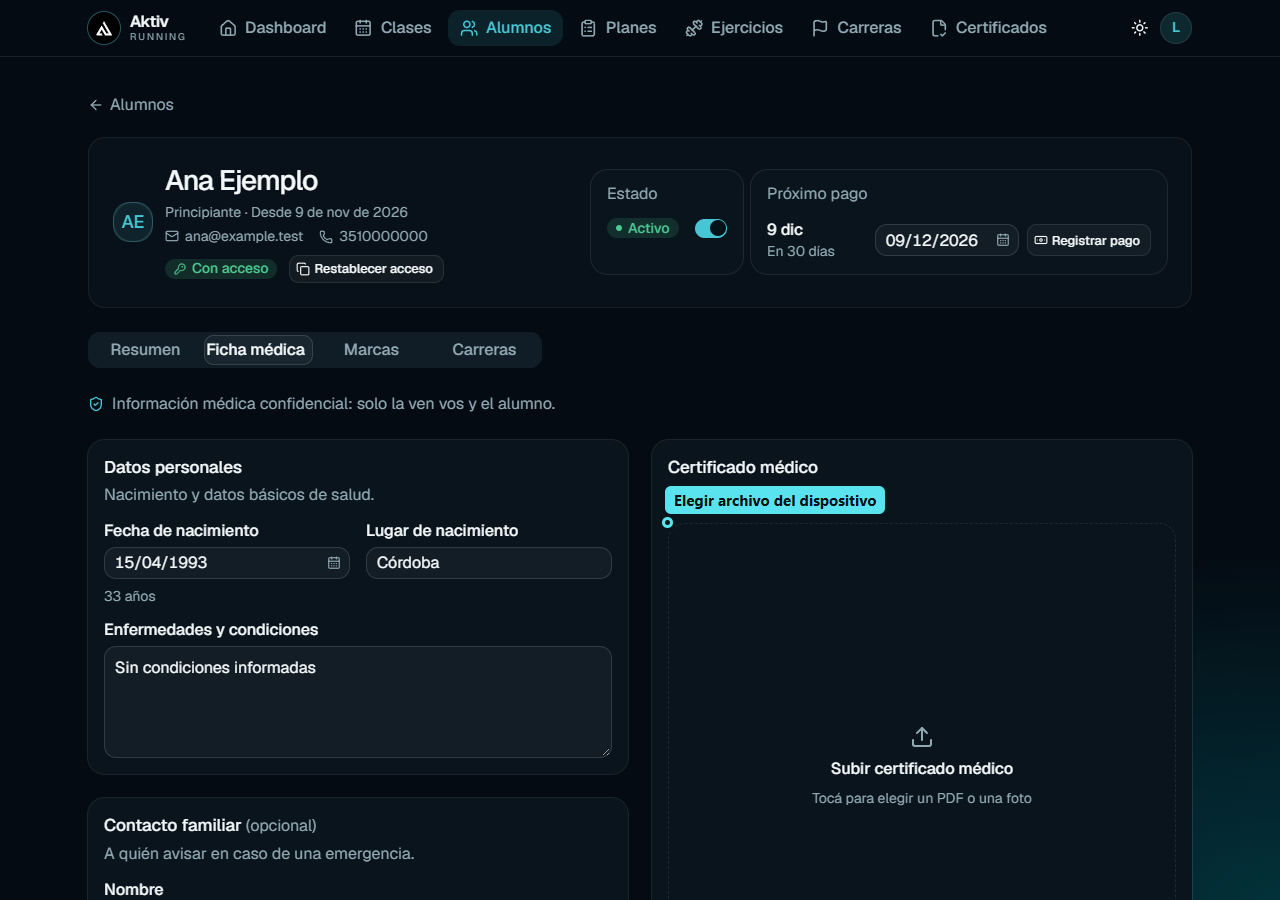
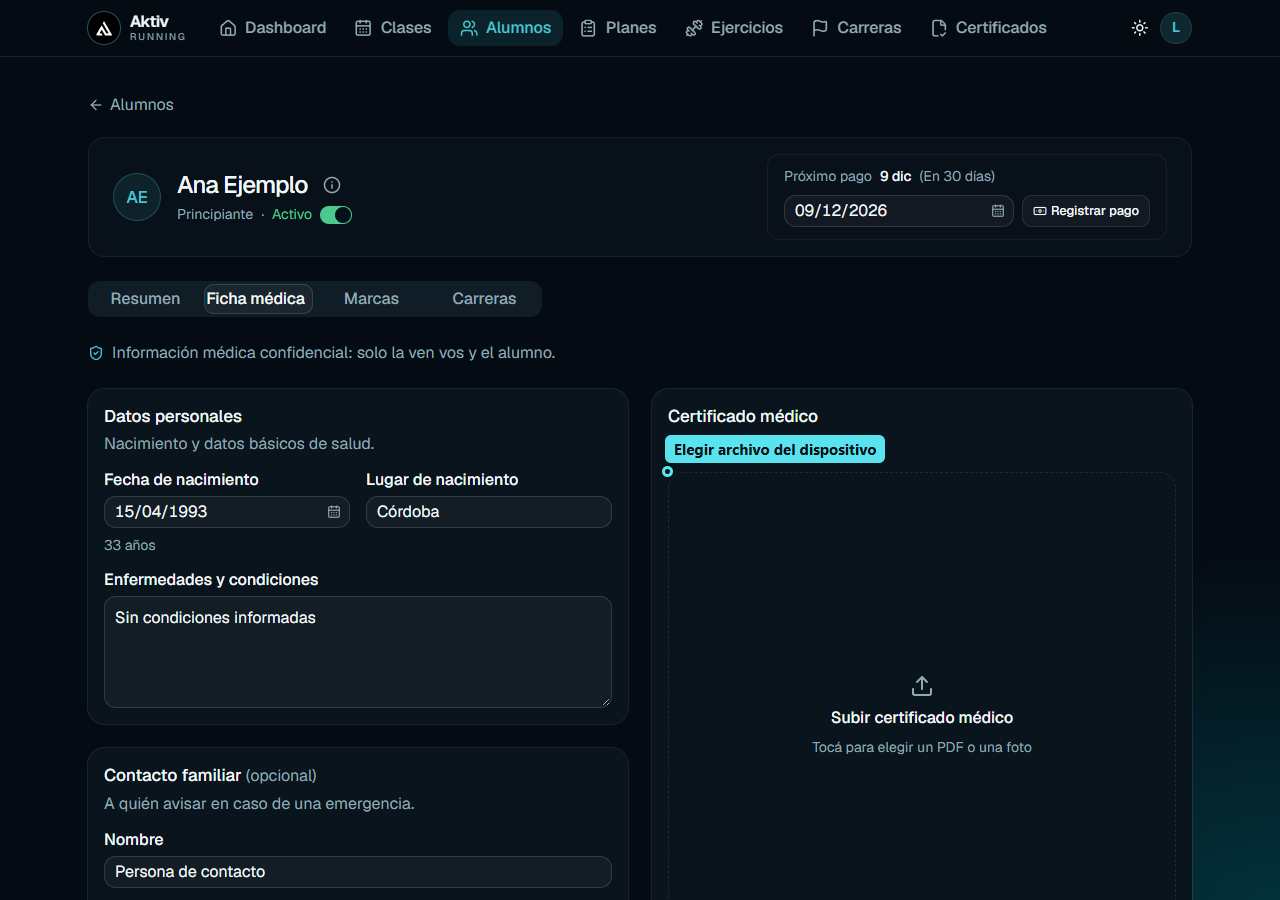
Compactar cabecera y bloquear acceso de alumnos inactivos

diff --git a/aktiv-client/src/app/(app)/alumnos/[id]/page.tsx b/aktiv-client/src/app/(app)/alumnos/[id]/page.tsx
@@ -3,25 +3,18 @@
 import Link from "next/link";
 import { useState } from "react";
 import { useParams } from "next/navigation";
-import { ArrowLeft, Banknote, Mail, Phone, UserSearch } from "lucide-react";
+import { ArrowLeft, Banknote, Info, Mail, Phone, UserSearch } from "lucide-react";
 import { toast } from "sonner";
 import { AccesoAlumno, EliminarAlumno } from "@/components/acceso-card";
 import { CarrerasDeAlumno } from "@/components/carreras-view";
-import { EstadoBadge, PagoTexto } from "@/components/estado";
 import { FichaMedica } from "@/components/ficha-medica";
 import { MarcasPanel } from "@/components/marcas-panel";
 import { AlumnoResumen } from "@/components/alumno-resumen";
 import { PlanEditor } from "@/components/plan-editor";
 import { PlanMensualPanel } from "@/components/plan-mensual";
 import { usePlanesMensuales, hayBorradoresMensuales } from "@/lib/mensual";
-import { Avatar, AvatarFallback } from "@/components/ui/avatar";
 import { Button, buttonVariants } from "@/components/ui/button";
-import {
-  Card,
-  CardContent,
-  CardDescription,
-  CardHeader,
-} from "@/components/ui/card";
+import { Dialog, DialogContent, DialogDescription, DialogHeader, DialogTitle } from "@/components/ui/dialog";
 import { FechaInput } from "@/components/fecha-input";
 import { Label } from "@/components/ui/label";
 import { Switch } from "@/components/ui/switch";
@@ -34,12 +27,15 @@ import {
   iniciales,
   parseISO,
   sumarMeses,
+  textoRelativo,
 } from "@/lib/format";
 import { useRol } from "@/lib/guards";
-import { actualizarAlumno, useStore } from "@/lib/store";
+import { actualizarAlumno, cambiarEstadoAlumno, useStore } from "@/lib/store";
 
 export default function AlumnoDetallePage() {
   const [tab, setTab] = useState("resumen");
+  const [informacion,setInformacion]=useState(false);
+  const [guardandoEstado,setGuardandoEstado]=useState(false);
   const session = useRol("coach");
   const { id } = useParams<{ id: string }>();
   const mensual = usePlanesMensuales(id);
@@ -60,15 +56,14 @@ export default function AlumnoDetallePage() {
     );
   }
 
-  function cambiarEstado(activo: boolean) {
-    if (!alumno) return;
-    actualizarAlumno(alumno.id, {
-      activo,
-      // al reactivar, si no tenía pago programado le armamos uno para dentro de un mes
-      proximoPago:
-        activo && !alumno.proximoPago ? sumarMeses(1) : alumno.proximoPago,
-    });
-    toast.success(activo ? "Alumno activado" : "Alumno marcado como inactivo");
+  async function cambiarEstado(activo: boolean) {
+    if (!alumno || guardandoEstado) return;
+    setGuardandoEstado(true);
+    try {
+      await cambiarEstadoAlumno(alumno.id, {activo, proximoPago:activo&&!alumno.proximoPago?sumarMeses(1):alumno.proximoPago});
+      toast.success(activo?"Alumno activado":"Alumno desactivado. Su acceso queda bloqueado.");
+    } catch(e) {toast.error(e instanceof Error?e.message:"No se pudo cambiar el estado. Reintentá.");}
+    finally {setGuardandoEstado(false);}
   }
 
   function registrarPago() {
@@ -104,84 +99,21 @@ export default function AlumnoDetallePage() {
           Alumnos
         </Link>
 
-        <header className="flex min-w-0 flex-col gap-6 rounded-xl border border-border/70 bg-card/70 p-5 sm:p-6 xl:flex-row xl:items-center xl:justify-between">
-          <div className="flex min-w-0 items-start gap-3 sm:items-center">
-          <Avatar size="lg" className="size-12 shrink-0 rounded-xl sm:size-14">
-            <AvatarFallback className="rounded-xl border border-primary/25 bg-primary/10 text-lg font-medium text-primary">
-              {iniciales(alumno.nombre)}
-            </AvatarFallback>
-          </Avatar>
-          <div className="min-w-0 flex-1">
-            <h1 className="break-words text-2xl font-medium tracking-[-0.035em] sm:text-[28px]">
-              {alumno.nombre}
-            </h1>
-            <p className="mt-1 text-xs text-muted-foreground">
-              {alumno.nivel} · Desde{" "}
-              {formatFecha(alumno.altaEn, { conAnio: true })}
-            </p>
-            <p className="mt-1 flex min-w-0 flex-col items-start gap-x-4 gap-y-1 text-xs text-muted-foreground sm:flex-row sm:flex-wrap sm:items-center">
-              <span className="inline-flex min-w-0 max-w-full items-start gap-1.5">
-                <Mail className="mt-0.5 size-3.5 shrink-0" />
-                <span className="min-w-0 break-all">{alumno.email || "Sin email"}</span>
-              </span>
-              <span className="inline-flex items-center gap-1.5">
-                <Phone className="size-3.5 shrink-0" />
-                {alumno.telefono || "Sin teléfono"}
-              </span>
-            </p>
-            <AccesoAlumno alumno={alumno} />
+        <header className="flex min-w-0 flex-col gap-5 rounded-xl border border-border/70 bg-card/60 px-5 py-4 sm:px-6 lg:flex-row lg:items-center lg:justify-between">
+          <div className="flex min-w-0 items-center gap-4">
+            <div aria-hidden="true" className="flex size-12 shrink-0 items-center justify-center rounded-full border border-primary/25 bg-primary/10 text-base font-medium text-primary">{iniciales(alumno.nombre)}</div>
+            <div className="min-w-0">
+              <div className="flex min-w-0 items-center gap-2"><h1 className="min-w-0 break-words text-2xl font-medium tracking-[-0.035em]">{alumno.nombre}</h1><Button variant="ghost" size="icon" aria-label="Información del alumno" title="Información y acceso" onClick={()=>setInformacion(true)}><Info className="size-[18px] text-muted-foreground" /></Button></div>
+              <div className="mt-1 flex flex-wrap items-center gap-x-2 gap-y-1 text-xs text-muted-foreground"><span>{alumno.nivel}</span><span aria-hidden="true">·</span><span className={alumno.activo?"text-success":"text-destructive"}>{alumno.activo?"Activo":"Inactivo"}</span><Label htmlFor="estado-switch" className="sr-only">{alumno.activo?"Desactivar":"Activar"}</Label><Switch id="estado-switch" checked={alumno.activo} disabled={guardandoEstado} onCheckedChange={cambiarEstado} style={{backgroundColor:alumno.activo?"var(--success)":"var(--destructive)"}} />{guardandoEstado&&<span role="status">Guardando…</span>}</div>
+            </div>
           </div>
-          </div>
-      <section aria-label="Estado y pago" className="grid w-full gap-2 sm:grid-cols-[9.5rem_minmax(0,1fr)] xl:w-[36rem] xl:shrink-0">
-        <Card className="min-w-0 gap-2 py-3">
-          <CardHeader className="px-4">
-            <CardDescription>Estado</CardDescription>
-          </CardHeader>
-          <CardContent className="flex items-center justify-between gap-2 px-4">
-            <div className="flex items-center gap-3">
-              <EstadoBadge activo={alumno.activo} />
-            </div>
-            <div className="flex items-center gap-2">
-              <Label htmlFor="estado-switch" className="sr-only">
-                {alumno.activo ? "Desactivar" : "Activar"}
-              </Label>
-              <Switch
-                id="estado-switch"
-                checked={alumno.activo}
-                onCheckedChange={cambiarEstado}
-              />
-            </div>
-          </CardContent>
-        </Card>
-
-        <Card className="min-w-0 gap-2 py-3">
-          <CardHeader className="px-4">
-            <CardDescription>Próximo pago</CardDescription>
-          </CardHeader>
-          <CardContent className="flex min-w-0 flex-wrap items-center justify-between gap-3 px-4">
-            <PagoTexto
-              fecha={alumno.proximoPago}
-              className="text-sm"
-            />
-            <div className="flex w-full min-w-0 flex-wrap items-center gap-2 sm:w-auto">
-              <FechaInput
-                aria-label="Fecha del próximo pago"
-                value={alumno.proximoPago ?? ""}
-                min={hoyISO()}
-                onChange={(e) =>
-                  actualizarAlumno(alumno.id, { proximoPago: e.target.value || null })
-                }
-                className="h-8 min-w-0 flex-1 basis-36 text-xs sm:w-36 sm:flex-none"
-              />
-              <Button variant="outline" size="sm" className="h-8 shrink-0" onClick={registrarPago}>
-                <Banknote data-icon="inline-start" />
-                Registrar pago
-              </Button>
-            </div>
-          </CardContent>
-        </Card>
-      </section>
+          <section aria-label="Estado y pago" className="min-w-0 space-y-2 rounded-lg border border-border/60 px-4 py-3 lg:w-[25rem] lg:shrink-0">
+            <p className="flex flex-wrap items-baseline gap-x-2 gap-y-1 text-xs"><span className="text-muted-foreground">Próximo pago</span>{alumno.proximoPago?<><span className="font-medium tabular-nums">{formatFecha(alumno.proximoPago)}</span><span className="text-muted-foreground">({textoRelativo(alumno.proximoPago)})</span></>:<span className="text-muted-foreground">Sin fecha</span>}</p>
+            <div className="flex min-w-0 flex-wrap items-center gap-2"><FechaInput aria-label="Fecha del próximo pago" value={alumno.proximoPago??""} min={hoyISO()} onChange={e=>actualizarAlumno(alumno.id,{proximoPago:e.target.value||null})} className="h-8 min-w-0 flex-1 basis-32 text-xs" /><Button variant="outline" size="sm" className="h-8 shrink-0" onClick={registrarPago}><Banknote />Registrar pago</Button></div>
+          </section>
         </header>
+        <Dialog open={informacion} onOpenChange={setInformacion}><DialogContent className="sm:max-w-md"><DialogHeader><DialogTitle>Información del alumno</DialogTitle><DialogDescription>{alumno.nombre}</DialogDescription></DialogHeader><dl className="space-y-4 text-sm"><div><dt className="text-xs text-muted-foreground">Email</dt><dd className="mt-1 flex items-start gap-2 break-all"><Mail className="mt-1 size-4 shrink-0 text-muted-foreground" />{alumno.email||"Sin email"}</dd></div><div><dt className="text-xs text-muted-foreground">Teléfono</dt><dd className="mt-1 flex items-center gap-2"><Phone className="size-4 text-muted-foreground" />{alumno.telefono||"Sin teléfono"}</dd></div><div><dt className="text-xs text-muted-foreground">Alumno desde</dt><dd className="mt-1">{formatFecha(alumno.altaEn,{conAnio:true})}</dd></div>{alumno.objetivo&&<div><dt className="text-xs text-muted-foreground">Objetivo</dt><dd className="mt-1 break-words">{alumno.objetivo}</dd></div>}</dl><div className="border-t pt-3"><AccesoAlumno alumno={alumno} />{!alumno.activo&&<p className="mt-3 text-sm text-destructive">El alumno está inactivo y no puede iniciar sesión. Reactivalo desde el switch de la cabecera para habilitar su acceso.</p>}</div></DialogContent></Dialog>
+
       </div>
 
       <Tabs value={tab} onValueChange={(valor) => {

diff --git a/aktiv-client/src/lib/manual-detallado.ts b/aktiv-client/src/lib/manual-detallado.ts
@@ -49,21 +49,22 @@ export const guias: GuiaManual[] = [
     p("Completá el formulario", "Revisá especialmente email y DNI si vas a preparar sus credenciales.", "alumno-nuevo", [["Nombre completo", "Identifica a la persona en las fichas y listas."], ["DNI", "Sin puntos; se utiliza como contraseña inicial al preparar el acceso."], ["Email", "El que va a escribir la persona al entrar."], ["Teléfono", "Su contacto, si lo tenés."], ["Objetivo", "Por ejemplo primer 10K. Puede definirse después."], ["Nivel", "Principiante, Intermedio o Avanzado según corresponda."]]),
     p("Confirmá Crear alumno", "Pulsá Crear alumno al final. Se abre la ficha nueva. Si hay un error, corregí el dato que indica el mensaje; no crees fichas repetidas para intentar resolverlo.", "alumno-nuevo"),
     p("Prepará su acceso con DNI", "En la cabecera de su ficha, usá Preparar acceso con DNI si todavía no tiene cuenta. Revisá el email y el DNI, confirmá y compartí el mensaje de acceso que ofrece la app.", "alumno-acceso"),
-    p("Comprobá el estado del acceso", "Revisá que la ficha indique Con acceso. Tener una ficha cargada y tener una cuenta preparada son cosas distintas. Prepará sus rutinas desde la grilla de Resumen.", "alumno-resumen"),
+    p("Comprobá el estado del acceso", "Pulsá el icono de información junto al nombre y revisá que el modal indique Con acceso. Tener una ficha cargada y tener una cuenta preparada son cosas distintas. Prepará sus rutinas desde la grilla de Resumen.", "alumno-resumen"),
   ], "El alta manual no envía automáticamente una invitación por email. Compartí las instrucciones de acceso con la persona. Si se registró sola y está pendiente, usá Aprobar en vez de crear otra ficha."),
 
   g("editar-alumno", "Alumnos", "Consultar y actualizar la ficha del alumno", "Datos de acceso, notas privadas, estado y próximo pago.", "/alumnos", [
     p("Abrí la ficha correcta", "Entrá en Alumnos, buscá a la persona y pulsá su nombre. Comprobá nombre y email de la cabecera antes de modificar información.", "alumnos-lista"),
+    p("Consultá contacto y acceso", "Pulsá el icono de información junto al nombre: abre el modal con email, teléfono, fecha de alta y objetivo. Las acciones de acceso están debajo. Cerralo con la X o Escape para volver a la grilla.", "alumno-informacion"),
     p("Revisá sus apartados", "Resumen reúne la planificación, notas y estado. Ficha médica permite actualizar salud y contacto de emergencia. Marcas registra tiempos. Carreras contiene sus inscripciones. Elegí la pestaña de lo que necesitás modificar.", "alumno-resumen"),
     p("Actualizá tus apuntes", "En Resumen, usá Lesiones o apuntes para observaciones privadas del profesor. Escribí la nota y esperá el guardado antes de cambiar de pantalla. No la confundas con las notas personales del alumno.", "alumno-resumen"),
-    p("Revisá Estado", "El interruptor permite dejar al alumno activo o inactivo. No es una eliminación: los registros se conservan. No uses Eliminar alumno si lo que querés es una pausa.", "alumno-resumen"),
+    p("Revisá Estado", "El switch junto al nivel es verde cuando está activo y rojo cuando está inactivo. Desactivarlo bloquea el inicio de sesión, la renovación y los nuevos pedidos de una sesión abierta. Esperá la confirmación del guardado; si falla, el estado no cambia. Los datos y planes se conservan. Reactivalo desde el mismo switch para que vuelva a ingresar con su contraseña habitual.", "alumno-resumen"),
     p("Controlá Próximo pago", "Revisá la fecha antes de pulsar Registrar pago. La acción mueve el próximo vencimiento un mes: desde la fecha vigente si todavía no venció, o desde hoy si ya pasó. No pulses varias veces por el mismo pago.", "alumno-resumen"),
-    p("Para acceso, usá el formulario de credenciales", "Preparar acceso con DNI o Restablecer acceso permite revisar email y DNI. Restablecer reemplaza la contraseña actual: no lo uses solamente para consultar o para editar las indicaciones de un plan.", "alumno-acceso"),
+    p("Para acceso, usá el formulario de credenciales", "Pulsá el icono de información junto al nombre. El modal muestra email, teléfono, fecha de alta y objetivo. Allí Preparar acceso con DNI o Restablecer acceso permite revisar email y DNI. Restablecer reemplaza la contraseña actual: no lo uses solamente para consultar o para editar las indicaciones de un plan.", "alumno-acceso"),
   ], "Los datos médicos se completan en Ficha médica y los planes en Resumen. Cambiar un estado, modificar un entrenamiento y restablecer una contraseña son acciones diferentes."),
 
   g("eliminar-alumno", "Alumnos", "Desactivar o eliminar un alumno", "Pausar conservando registros o quitar una ficha definitivamente.", "/alumnos", [
     p("Buscá y verificá la persona", "Entrá en Alumnos y abrí su ficha. Revisá nombre y email antes de actuar.", "alumno-resumen"),
-    p("Si es una pausa, usá Estado", "Cambiá el interruptor de activo a inactivo para conservar la información. No reemplaza su contraseña ni elimina sus planes.", "alumno-resumen"),
+    p("Si es una pausa, usá Estado", "Cambiá el switch junto al nivel de activo (verde) a inactivo (rojo). Se bloquea el acceso a la aplicación y se conservan la información, contraseña y planes. Reactivalo desde el mismo lugar para devolverle el acceso.", "alumno-resumen"),
     p("Si es definitivo, bajá al final de la ficha", "Pulsá Eliminar alumno. Se abre una confirmación con el nombre de la persona. Leela antes de continuar; no es el tacho de un ejercicio o un plan.", "alumno-eliminar"),
     p("Confirmá o cancelá", "Cancelar vuelve sin borrar. Eliminar quita la ficha y los datos asociados indicados por la app, incluida la cuenta vinculada cuando corresponda. Esperá el resultado y revisá cualquier error antes de reintentar.", "alumno-eliminar"),
   ], "No se puede deshacer la eliminación desde la app. Para retirar una rutina de la vista del alumno, usá Desactivar plan en lugar de eliminar a la persona."),
@@ -72,7 +73,7 @@ export const guias: GuiaManual[] = [
     p("Usá ¿Olvidaste tu contraseña?", "Desde el login, pulsá el enlace de recuperación. No hace falta crear otro usuario ni volver a registrarse.", "login"),
     p("Escribí el email de la cuenta", "Ingresá el mismo email con el que entra la persona y enviá la solicitud. Comprobá la escritura antes de continuar.", "recuperar"),
     p("Abrí el correo y elegí una nueva clave", "El alumno abre el mensaje, sigue el enlace y completa una contraseña nueva. Si no lo encuentra, revisa spam. Si el enlace dejó de funcionar, solicita otro y usa el más reciente.", "recuperar"),
-    p("Para ayudar desde tu cuenta, abrí Restablecer acceso", "Entrá en Alumnos → ficha de la persona → Restablecer acceso. Primero acordalo con ella, porque reemplaza la clave que estaba usando.", "alumno-acceso"),
+    p("Para ayudar desde tu cuenta, abrí Restablecer acceso", "Entrá en Alumnos → ficha de la persona → icono de información → Restablecer acceso. Primero acordalo con ella, porque reemplaza la clave que estaba usando.", "alumno-acceso"),
     p("Revisá los datos y confirmá", "Comprobá email y DNI. Marcá la casilla que confirma el reemplazo de contraseña si aparece y confirmá el restablecimiento. Compartí las instrucciones de acceso; no pidas la clave personal por chat.", "alumno-acceso"),
     p("Probá entrar nuevamente", "La persona vuelve a Entrar con su email y la clave nueva, o el DNI si restableciste a ese valor. Si el alta sigue pendiente, todavía hay que aprobarla desde Dashboard → Solicitudes de alta.", "login"),
   ], "El registro no exige confirmar correo, pero la recuperación por email sí envía un mensaje con un enlace. Son procesos distintos."),

diff --git a/aktiv-api/src/auth/estado-alumno.spec.ts b/aktiv-api/src/auth/estado-alumno.spec.ts
@@ -1,0 +1,36 @@
+import { AuthService } from "./auth.service";
+import type { SupabaseService } from "../supabase/supabase.service";
+import type { Env } from "../config/env";
+
+function entorno(rol="alumno") {
+  const estado={activo:true,error:null as null|{message:string;code:string}};
+  const user={id:"cuenta",email:"ana@example.test"};
+  const session={access_token:"token",refresh_token:"refresh",expires_in:3600};
+  const getUser=jest.fn(async()=>({data:{user},error:null}));
+  const from=jest.fn((tabla:string)=>({select:()=>({eq:()=>({maybeSingle:async()=>tabla==="profiles"?{data:{rol,nombre:"Ana",email:user.email},error:null}:{data:{activo:estado.activo},error:estado.error}})})}));
+  const supa={anonimo:()=>({auth:{getUser,signInWithPassword:async()=>({data:{user,session},error:null}),refreshSession:async()=>({data:{user,session},error:null})}}),delUsuario:()=>({from})};
+  return {estado,getUser,from,auth:new AuthService(supa as unknown as SupabaseService,{LOGIN_FALLOS_POR_MIN:5} as Env)};
+}
+
+describe("Estado del alumno y acceso",()=>{
+  it("permite entrar al alumno activo",async()=>{
+    const e=entorno();expect((await e.auth.login("ana@example.test","clave","ip")).usuario.rol).toBe("alumno");
+  });
+  it("rechaza login y renovación de un alumno inactivo",async()=>{
+    const e=entorno();e.estado.activo=false;
+    await expect(e.auth.login("ana@example.test","clave","ip")).rejects.toMatchObject({codigo:"alumno_inactivo"});
+    await expect(e.auth.refrescar("refresh")).rejects.toMatchObject({codigo:"alumno_inactivo"});
+  });
+  it("bloquea una sesión previamente cacheada sin esperar su vencimiento y permite reactivar",async()=>{
+    const e=entorno();await e.auth.usuarioDesdeToken("token");await e.auth.usuarioDesdeToken("token");expect(e.getUser).toHaveBeenCalledTimes(1);
+    e.estado.activo=false;await expect(e.auth.usuarioDesdeToken("token")).rejects.toMatchObject({codigo:"alumno_inactivo"});
+    e.estado.activo=true;expect((await e.auth.usuarioDesdeToken("token")).id).toBe("cuenta");expect(e.getUser).toHaveBeenCalledTimes(2);
+  });
+  it("no aplica el estado de alumno a un profesor",async()=>{
+    const e=entorno("coach");e.estado.activo=false;await e.auth.login("ana@example.test","clave","ip");expect(e.from).not.toHaveBeenCalledWith("alumnos");
+  });
+  it("un error de base no se confunde con una desactivación",async()=>{
+    const e=entorno();e.estado.error={message:"Fallo temporal",code:"08006"};
+    await expect(e.auth.usuarioDesdeToken("token")).rejects.not.toMatchObject({codigo:"alumno_inactivo"});
+  });
+});

diff --git a/aktiv-api/src/auth/auth.service.ts b/aktiv-api/src/auth/auth.service.ts
@@ -1,7 +1,7 @@
 import { HttpStatus, Inject, Injectable, Optional } from "@nestjs/common";
 import { RegistroService } from "./registro.service";
 import { ENV, type Env } from "../config/env";
-import { ErrorApi, noAutenticado, sinPermiso } from "../common/errores";
+import { ErrorApi, lanzarSiError, noAutenticado, sinPermiso } from "../common/errores";
 import type { Rol, Usuario } from "../common/tipos";
 import { SupabaseService } from "../supabase/supabase.service";
 
@@ -200,7 +200,10 @@ export class AuthService {
   /** Valida un access token y devuelve el usuario con su rol (con caché corta) */
   async usuarioDesdeToken(token: string): Promise<Usuario> {
     const hit = this.cache.get(token);
-    if (hit && hit.vence > Date.now()) return hit.usuario;
+    if (hit && hit.vence > Date.now()) {
+      await this.comprobarEstadoAlumno(hit.usuario);
+      return hit.usuario;
+    }
 
     const { data, error } = await this.supa.anonimo().auth.getUser(token);
     if (error || !data.user) {
@@ -234,6 +237,18 @@ export class AuthService {
       }
       throw sinPermiso("Tu cuenta todavía no está habilitada. Hablá con tu profe.");
     }
-    return { id, email: data.email ?? email, rol: data.rol as Rol, nombre: data.nombre, token };
+    const usuario={ id, email: data.email ?? email, rol: data.rol as Rol, nombre: data.nombre, token };
+    await this.comprobarEstadoAlumno(usuario);
+    return usuario;
+  }
+
+  private async comprobarEstadoAlumno(usuario:Usuario) {
+    if(usuario.rol!=="alumno")return;
+    const {data,error}=await this.supa.delUsuario(usuario.token).from("alumnos").select("activo").eq("user_id",usuario.id).maybeSingle();
+    lanzarSiError(error);
+    if(!data?.activo) {
+      this.cache.delete(usuario.token);
+      throw noAutenticado("alumno_inactivo","Tu acceso está desactivado. Hablá con tu profesor para reactivarlo.");
+    }
   }
 }

diff --git a/aktiv-api/test/api.e2e-spec.ts b/aktiv-api/test/api.e2e-spec.ts
@@ -48,6 +48,18 @@ describe("API de Aktiv (contra Supabase local)", () => {
     S2 = await new Sesion(app).entrar(cuentaA2.email);
   });
 
+  it("desactivar bloquea login, renovación y sesión abierta; reactivar conserva la contraseña",async()=>{
+    expect((await S1.get("/api/auth/me")).status).toBe(200);
+    expect((await A.patch('/api/alumnos/'+alumnoA1,{activo:false})).status).toBe(200);
+    expect((await S1.get("/api/auth/me")).body.codigo).toBe("alumno_inactivo");
+    const login=await request(app.getHttpServer()).post("/api/auth/login").set(H).send({usuario:cuentaA1.email,clave:PASS});
+    expect(login.status).toBe(401);expect(login.body.codigo).toBe("alumno_inactivo");expect(login.headers["set-cookie"]).toBeUndefined();
+    expect((await S1.post("/api/auth/refresh",{})).body.codigo).toBe("alumno_inactivo");
+    expect((await A.patch('/api/alumnos/'+alumnoA1,{activo:true})).status).toBe(200);
+    S1=await new Sesion(app).entrar(cuentaA1.email);
+    expect((await S1.get("/api/datos")).status).toBe(200);
+  });
+
   afterAll(async () => {
     await env.limpiar();
     await app.close();

diff --git a/aktiv-client/src/lib/remoto.ts b/aktiv-client/src/lib/remoto.ts
@@ -459,6 +459,13 @@ export function programarSync() {
   temporizador = setTimeout(() => void sincronizar(), 600);
 }
 
+/** El bloqueo de acceso se confirma en servidor antes de mostrar el nuevo estado. */
+export async function guardarEstadoAlumno(id:string,cambios:{activo:boolean;proximoPago:string|null}) {
+  await api.patch(`/alumnos/${id}`,cambios);
+  const anterior=base?.alumnos.get(id);
+  if(anterior)Object.assign(anterior,cambios);
+}
+
 /**
  * Manda los cambios pendientes. La promesa se resuelve cuando terminó el
  * guardado (incluido lo que se editó mientras tanto), así que se puede esperar

diff --git a/aktiv-client/src/lib/store.ts b/aktiv-client/src/lib/store.ts
@@ -335,6 +335,12 @@ export function actualizarAlumno(id: string, cambios: Partial<Alumno>) {
   });
 }
 
+export async function cambiarEstadoAlumno(id:string,cambios:{activo:boolean;proximoPago:string|null}) {
+  await remoto.guardarEstadoAlumno(id,cambios);
+  const actual=getSnapshot();
+  publicar({...actual,alumnos:actual.alumnos.map(a=>a.id===id?{...a,...cambios}:a)});
+}
+
 export function crearAlumno(
   datos: Pick<Alumno, "nombre" | "email" | "telefono" | "objetivo" | "nivel"> & { dni?: string },
 ) {

diff --git a/Codex.MD b/Codex.MD
@@ -1,3 +1,5 @@
+Cabecera compacta y bloqueo de acceso (11/11/2026): nombre/iniciales, nivel y switch en una línea compacta, pago a la derecha. Icono Información del alumno abre email/teléfono/alta/objetivo y acciones de acceso en modal; guía y capturas actualizadas. Switch usa verde/rojo y confirma PATCH antes de actualizar store/base; error conserva estado anterior y permite reintentar. API AuthService exige alumnos.activo para rol alumno en login, refresh y cada solicitud autenticada, aun con token/perfil cacheado; consulta como el usuario y nunca usa service-role. alumno_inactivo es401, frontend cierra sesión por flujo existente. Reactivar conserva contraseña y registros; profesor no depende de este estado. No migración nueva. Validación:68 unitarios API +60 contrato +31 cliente, typecheck/ESLint/builds Nest y Next;148 e2e reales en Supabase descartable (69 API incluida desactivación/login/sesión cacheada/refresh/reactivación y79 de otras12 suites). Navegador verifica modal, switch/color, fallo/reintento,320/390/1440, recorrido DNI/CSV y responsive320–1440. Docker se usó solo para esa prueba con cuentas ficticias; producción y entorno del usuario no modificados.
+
 Verificación de ficha minimalista: build Next y typecheck aprobados;31 pruebas cliente y ESLint sin errores (advertencia preexistente de TanStack). Los21 modos de mensual.browser pasan, incluido vacío/cargado320–1440; planificación nueva320/390/1440 pasa combinación, descanso exclusivo, teclado Space, error/reintento, copia y modales/pesos. Manual completo con imágenes/zoom/búsqueda y acceso exclusivo aprobado; capturas de ficha regeneradas con datos ficticios. Estado pendiente se marca desde el clic para no mostrar guardado antes del debounce. No se levantó Docker en este cambio de interfaz.
 
 Ficha minimalista (11/11/2026): por pedido del usuario se elimina pestaña Plan. Toda la planificación está en Resumen, manteniendo Estado y próximo pago. Cabecera integrada, tipografía Geist con pesos moderados y espaciado más preciso; acciones secundarias del plan con iconos y nombres accesibles. Actividades de la semana usa botones con aria-pressed: Fuerza y Running combinables; Descanso solo aparece sin otras actividades, deshabilita el resto hasta desmarcarlo. Actividades propias conservadas, selección de rutinas en la grilla. Organizar rutinas (biblioteca) alterna herramientas de preparación dentro de la misma vista para conservar rutinas sin asignar, duplicación/orden y funciones previas; no hay pestaña adicional. Modal de sesión y datos existentes conservados, sin migración nueva ni cambios de producción. Manual y capturas actualizados al nuevo recorrido.
